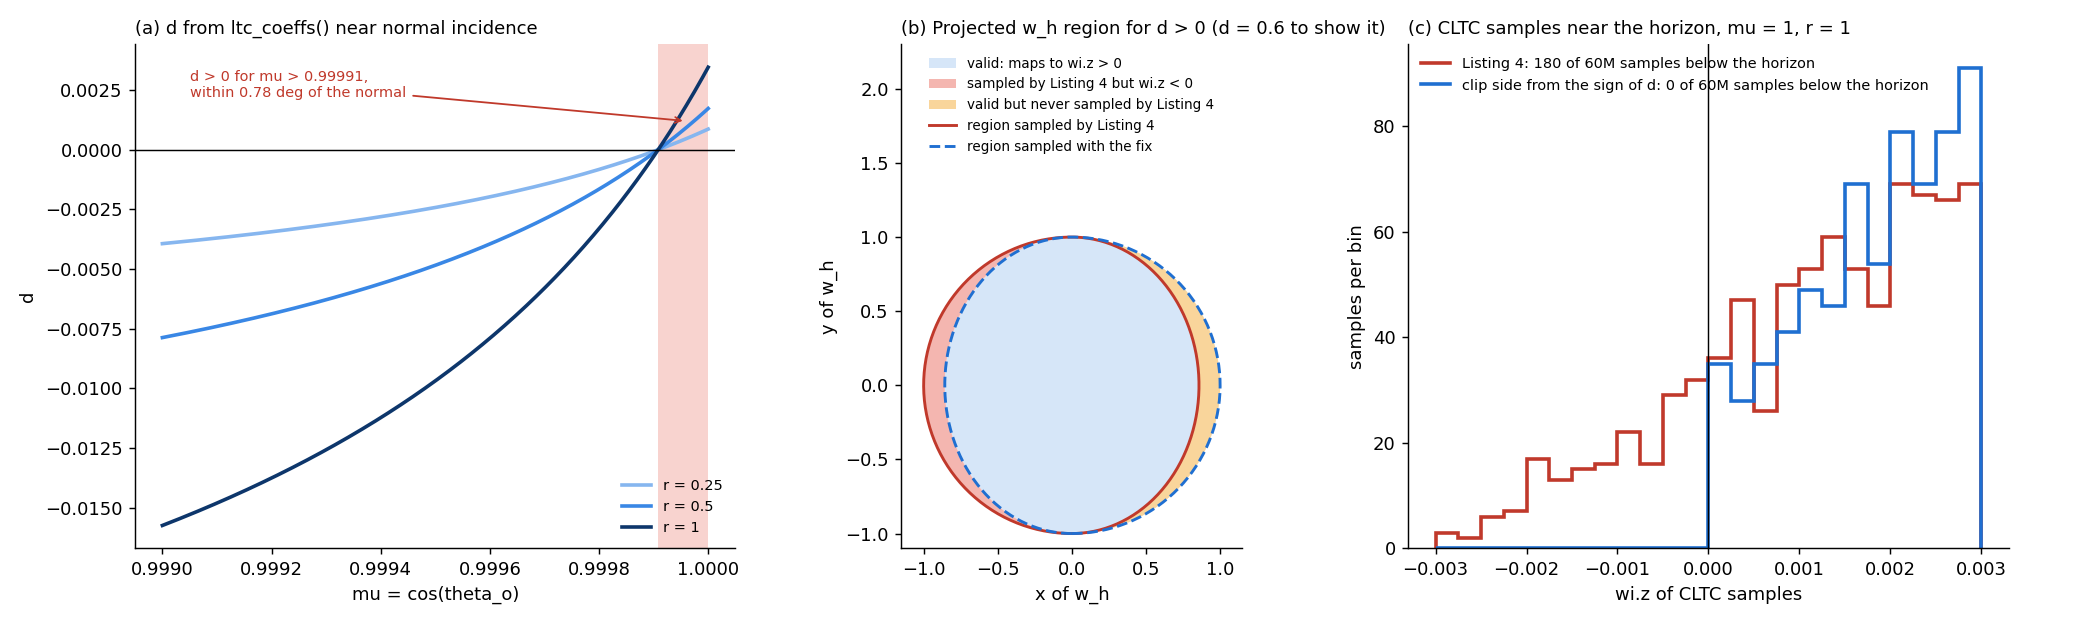
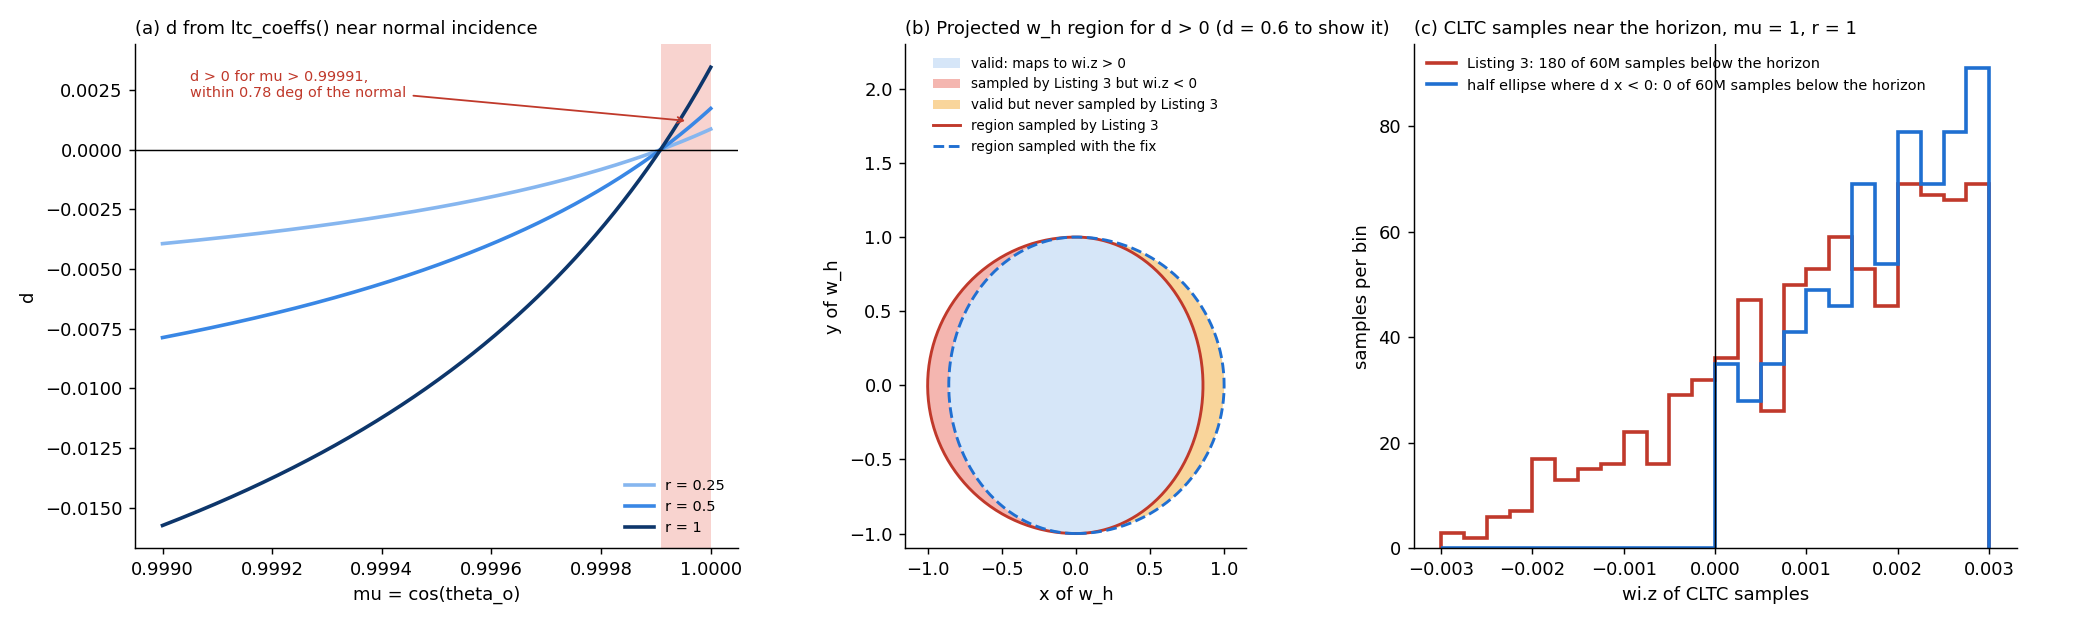
Label the original sampler Listing 3, as in the paper
cltc_sample() is Listing 3 of the paper, not Listing 4. Also name the fixed
sampler by where it puts the half ellipse: on the side where d x < 0.

diff --git a/plot_cltc_clip_side.py b/plot_cltc_clip_side.py
@@ -69,11 +69,11 @@ ellipse_neg = np.c_[-vz * np.cos(t), np.sin(t)]
 ax.add_patch(Polygon(np.r_[circle_pos, ellipse_neg[::-1]], closed=True, fc="#d6e6f8", ec="none",
                      label="valid: maps to wi.z > 0"))
 ax.add_patch(Polygon(np.r_[ellipse_neg, circle_neg[::-1]], closed=True, fc="#f4b6b0", ec="none",
-                     label="sampled by Listing 4 but wi.z < 0"))
+                     label="sampled by Listing 3 but wi.z < 0"))
 ax.add_patch(Polygon(np.r_[circle_pos, ellipse_pos[::-1]], closed=True, fc="#f9d59b", ec="none",
-                     label="valid but never sampled by Listing 4"))
+                     label="valid but never sampled by Listing 3"))
 ax.plot(*np.r_[circle_neg, ellipse_pos[::-1], circle_neg[:1]].T, color="#c0392b", lw=1.6,
-        label="region sampled by Listing 4")
+        label="region sampled by Listing 3")
 ax.plot(*np.r_[circle_pos, ellipse_neg[::-1], circle_pos[:1]].T, color="#1f6fd1", lw=1.6, ls="--",
         label="region sampled with the fix")
 ax.set_aspect("equal")
@@ -89,7 +89,7 @@ ax = axes[2]
 rng = np.random.default_rng(11)
 n, chunks = 20_000_000, 3
 bins = np.linspace(-0.003, 0.003, 25)
-for sign_aware, col, label in ((False, "#c0392b", "Listing 4"), (True, "#1f6fd1", "clip side from the sign of d")):
+for sign_aware, col, label in ((False, "#c0392b", "Listing 3"), (True, "#1f6fd1", "half ellipse where d x < 0")):
     counts = np.zeros(len(bins) - 1)
     below = 0
     for _ in range(chunks):
